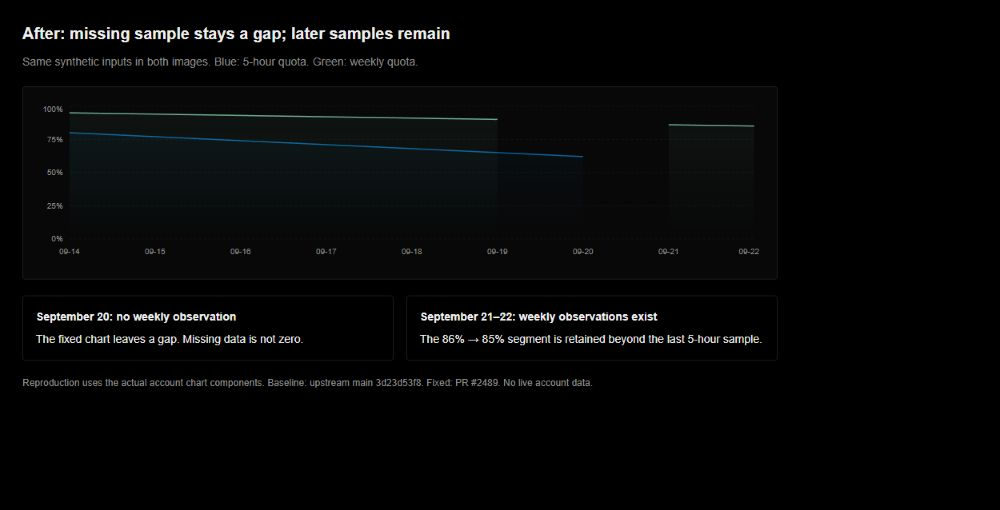
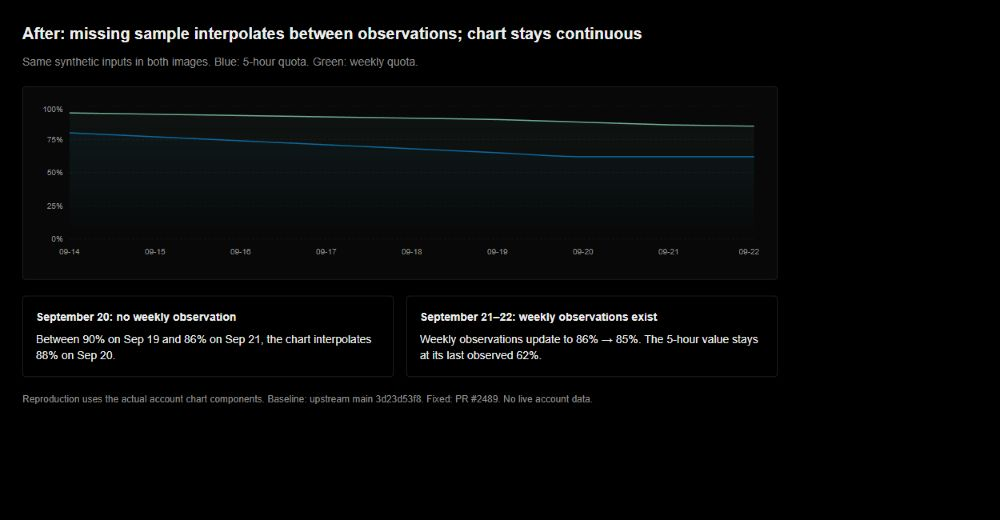
fix(accounts): interpolate missing quota chart samples

diff --git a/frontend/src/features/accounts/components/account-trend-chart.test.tsx b/frontend/src/features/accounts/components/account-trend-chart.test.tsx
@@ -60,7 +60,45 @@ describe("AccountTrendChart", () => {
     />);
     expect(JSON.parse(screen.getByTestId("chart-observations").textContent ?? "[]")).toEqual([
       { t: first, primary: null, secondary: 85 },
-      { t: second, primary: 60, secondary: null },
+      { t: second, primary: 60, secondary: 85 },
+    ]);
+  });
+
+  it("interpolates between observations while preserving observed zero", () => {
+    const times = Array.from({ length: 5 }, (_, i) =>
+      new Date(BASE.getTime() + i * 3600_000).toISOString(),
+    );
+    render(<AccountTrendChart
+      primary={[{ t: times[4], v: 50 }, { t: times[0], v: 60 }]}
+      secondary={[{ t: times[0], v: 90 }, { t: times[2], v: 0 }, { t: times[4], v: 85 }]}
+      secondaryScheduled={[{ t: times[1], v: 80 }, { t: times[3], v: 70 }]}
+    />);
+    expect(JSON.parse(screen.getByTestId("chart-observations").textContent ?? "[]")).toEqual([
+      { t: times[0], primary: 60, secondary: 90 },
+      { t: times[1], primary: 57.5, secondary: 45, secondaryScheduled: 80 },
+      { t: times[2], primary: 55, secondary: 0 },
+      { t: times[3], primary: 52.5, secondary: 42.5, secondaryScheduled: 70 },
+      { t: times[4], primary: 50, secondary: 85 },
+    ]);
+  });
+
+  it("replaces trailing carry-forward with time-weighted interpolation when a new sample arrives", () => {
+    const start = "2026-01-15T00:00:00Z";
+    const middle = "2026-01-15T01:00:00Z";
+    const end = "2026-01-15T04:00:00Z";
+    const primary = [{ t: middle, v: 50 }];
+    const { rerender } = render(<AccountTrendChart
+      primary={primary} secondary={[{ t: start, v: 90 }]}
+    />);
+    expect(JSON.parse(screen.getByTestId("chart-observations").textContent ?? "[]")[1])
+      .toEqual({ t: middle, primary: 50, secondary: 90 });
+    rerender(<AccountTrendChart
+      primary={primary} secondary={[{ t: start, v: 90 }, { t: end, v: 70 }]}
+    />);
+    expect(JSON.parse(screen.getByTestId("chart-observations").textContent ?? "[]")).toEqual([
+      { t: start, primary: null, secondary: 90 },
+      { t: middle, primary: 50, secondary: 85 },
+      { t: end, primary: 50, secondary: 70 },
     ]);
   });
 

diff --git a/frontend/src/features/accounts/components/account-trend-chart.tsx b/frontend/src/features/accounts/components/account-trend-chart.tsx
@@ -28,23 +28,35 @@ function mergePoints(
   secondary: UsageTrendPoint[],
   secondaryScheduled: UsageTrendPoint[],
 ): MergedPoint[] {
-  const secondaryMap = new Map(secondary.map((p) => [p.t, p.v]));
-  const primaryMap = new Map(primary.map((p) => [p.t, p.v]));
   const secondaryScheduledMap = new Map(secondaryScheduled.map((p) => [p.t, p.v]));
-
-  if (primary.length === 0 && secondary.length === 0 && secondaryScheduled.length === 0) {
-    return [];
-  }
-
   const timestamps = [...new Set([...primary, ...secondary, ...secondaryScheduled].map((p) => p.t))]
     .sort((a, b) => Date.parse(a) - Date.parse(b));
+  const primaryValues = interpolatePoints(primary, timestamps);
+  const secondaryValues = interpolatePoints(secondary, timestamps);
 
-  return timestamps.map((t) => ({
+  return timestamps.map((t, index) => ({
     t,
-    primary: primaryMap.get(t) ?? null,
-    secondary: secondaryMap.get(t) ?? null,
+    primary: primaryValues[index],
+    secondary: secondaryValues[index],
     secondaryScheduled: secondaryScheduledMap.get(t),
   }));
+}
+
+function interpolatePoints(points: UsageTrendPoint[], timestamps: string[]): (number | null)[] {
+  const sorted = [...points].sort((a, b) => Date.parse(a.t) - Date.parse(b.t));
+  let nextIndex = 0;
+  return timestamps.map((timestamp) => {
+    const time = Date.parse(timestamp);
+    while (nextIndex < sorted.length && Date.parse(sorted[nextIndex].t) <= time) {
+      nextIndex += 1;
+    }
+    const previous = sorted[nextIndex - 1];
+    const next = sorted[nextIndex];
+    if (!previous) return null;
+    if (!next) return previous.v;
+    const fraction = (time - Date.parse(previous.t)) / (Date.parse(next.t) - Date.parse(previous.t));
+    return previous.v + fraction * (next.v - previous.v);
+  });
 }
 
 function formatXTick(isoStr: string): string {

diff --git a/openspec/changes/fix-account-trend-missing-samples/context.md b/openspec/changes/fix-account-trend-missing-samples/context.md
@@ -2,7 +2,7 @@
 
 This local change is separate from the account usage-limit feature. It corrects missing chart samples, monthly chart labels, and quota smoothing state carried across account selection.
 
-Built-in browser verification used real components with synthetic quota observations. Switching from dual-window to weekly-only and monthly-only accounts reproduced stale quota bars; resetting state by account ID removes them. Sparse-series regression coverage confirms missing observations remain gaps rather than zero.
+Built-in browser verification used real components with synthetic quota observations. Switching from dual-window to weekly-only and monthly-only accounts reproduced stale quota bars; resetting state by account ID removes them. Sparse-series regression coverage confirms missing observations interpolate between known values by elapsed time, hold the last known value at the trailing edge, and do not backfill before the first observation.
 
 The exact cause of the original live monthly-history screenshot was not established without its source data. No production access was used.
 
@@ -12,4 +12,6 @@ Validation after isolating this change onto upstream `3d23d53f89dbbaa2353040a304
 
 The actual baseline and fixed chart components receive identical synthetic inputs at midnight UTC in September 2026. Primary samples: days 14–20 with remaining percentages 80, 77, 74, 71, 68, 65, 62. Secondary samples: days 14–19, 21, 22 with remaining percentages 95, 94, 93, 92, 91, 90, 86, 85. There is no secondary observation on day 20.
 
-`evidence/sparse-before.png` shows upstream rendering a false zero on day 20 and discarding days 21–22. `evidence/sparse-after.png` shows the gap and retains the final 86-to-85 percent segment. Both are built-in browser screenshots of local synthetic data, cropped to the chart and captions.
+`evidence/sparse-before.png` shows upstream rendering a false zero on day 20 and discarding days 21–22. `evidence/sparse-after.png` interpolates the weekly value to 88 percent on day 20, retains the final 86-to-85 percent segment, and holds the primary value at 62 percent on days 21–22. Both are built-in browser screenshots of local synthetic data, cropped to the chart and captions.
+
+Follow-up interpolation verification: 6 focused chart tests, TypeScript, changed-file ESLint, and strict change validation passed. A local built-in browser capture verifies continuous interpolation and trailing carry-forward using the same synthetic inputs.

diff --git a/openspec/changes/fix-account-trend-missing-samples/specs/account-quota-presentation/spec.md b/openspec/changes/fix-account-trend-missing-samples/specs/account-quota-presentation/spec.md
@@ -1,12 +1,12 @@
 ## ADDED Requirements
 
 ### Requirement: Faithful account trend series
-The account trend chart SHALL preserve every provided observation timestamp and SHALL represent an absent window sample as a gap rather than zero remaining. Legends SHALL list only available series. Monthly-account long-window tooltips SHALL use monthly labels.
+The account trend chart SHALL preserve every provided observation timestamp and SHALL linearly interpolate missing window samples between observations using elapsed time and SHALL hold the last observed value after the final observation. Values before the first observation SHALL remain unknown; actual zero observations SHALL be preserved. Legends SHALL list only available series. Monthly-account long-window tooltips SHALL use monthly labels.
 
 #### Scenario: Different observation timestamps
 - **GIVEN** a primary observation and a monthly observation have different timestamps
 - **WHEN** the chart combines the series
-- **THEN** both observations SHALL be retained and the missing counterpart SHALL remain absent rather than zero.
+- **THEN** both observations SHALL be retained and each missing counterpart SHALL interpolate between surrounding observations, retain its last observed value if no later observation exists, or remain unknown if no earlier observation exists.
 
 #### Scenario: Monthly-only trend
 - **GIVEN** only monthly observations exist

diff --git a/openspec/changes/fix-account-trend-missing-samples/proposal.md b/openspec/changes/fix-account-trend-missing-samples/proposal.md
@@ -4,7 +4,7 @@
 The dashboard merges quota series using only one series' timestamps and substitutes zero for absent samples. This can discard real observations and display exhaustion without an observation. The legend also advertises absent windows.
 
 ## What Changes
-- Preserve the union of observation timestamps and represent absent samples as gaps.
+- Preserve the union of observation timestamps and interpolate missing samples between observations by elapsed time, hold the last observed value at the trailing edge, and leave values unknown before the first observation.
 - Show legends for available series and use Monthly for monthly account tooltips.
 
 ## Impact

diff --git a/openspec/changes/fix-account-trend-missing-samples/tasks.md b/openspec/changes/fix-account-trend-missing-samples/tasks.md
@@ -1,2 +1,3 @@
 - [x] Preserve sparse chart observations, window labels, and account-scoped smoothing state.
 - [x] Verify regression tests and local synthetic browser scenarios.
+- [x] Verify continuous interpolated rendering with trailing carry-forward, real zero values, and no backfill before the first sample.
